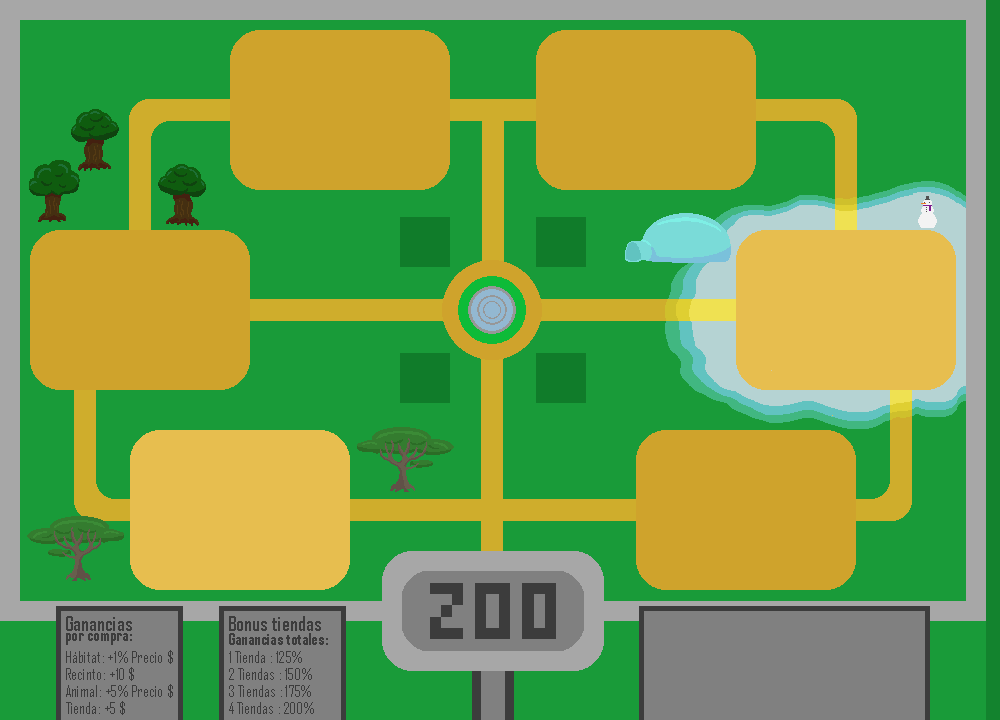
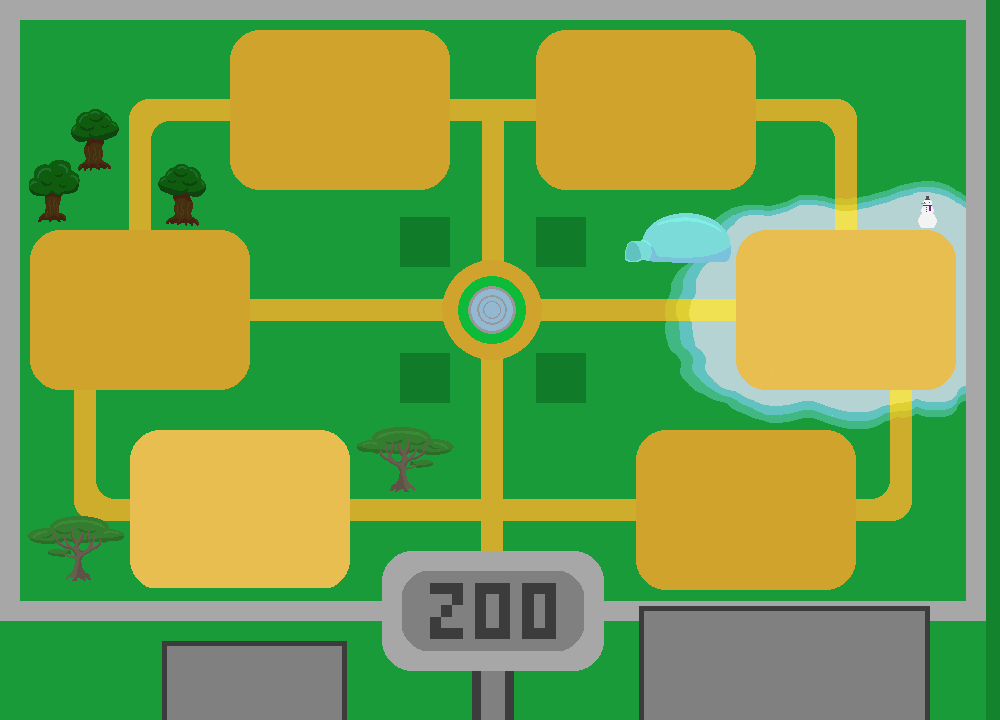
Creación de la imagen InfoZoo y un bóton en PanelZoologico para abrir el PanelInformación con la imagen InfoZoo

Changed region(s): [[0.031, 0.825, 0.372, 1.0]]

diff --git a/ProyectoFinal/src/main/java/Vistas/Paneles/PanelZoologico.java b/ProyectoFinal/src/main/java/Vistas/Paneles/PanelZoologico.java
@@ -6,6 +6,7 @@ import Vistas.Utils.Boton;
 import Vistas.Utils.CuadroTexto;
 import Vistas.Utils.ImageLoader;
 
+import javax.imageio.ImageIO;
 import javax.swing.*;
 import java.awt.*;
 import java.awt.event.ActionEvent;
@@ -13,12 +14,13 @@ import java.awt.event.ActionListener;
 import java.awt.event.KeyEvent;
 import java.awt.event.KeyListener;
 import java.awt.image.BufferedImage;
+import java.io.IOException;
 
 public class PanelZoologico extends JPanel {
     private Timer timer;
     private Zoologico zoologico;
     private PanelHabitat[] listaPanelHabitat;
-    private PanelHabitat openPanelHabitat;
+    private int openPanelHabitatIndex;
     private Boton[] selectHabitat;
     private Boton[] bTiendas;
     private Boton[] bOpciones;
@@ -31,32 +33,33 @@ public class PanelZoologico extends JPanel {
         timer = new Timer(1000,new EscucharTiempo());
         timer.start();
         panelInformacion = new PanelInformacion();
-        panelInformacion.setBounds(100,90,800,600);
+        addComp(panelInformacion,100,90,800,600);
         listaPanelHabitat = new PanelHabitat[6];
         zoologico = zoo;
+        openPanelHabitatIndex = 0;
         this.setBackground(new Color(25,155,57));
         selectHabitat = new Boton[6];
         bTiendas = new Boton[4];
-        bOpciones = new Boton[2];
+        bOpciones = new Boton[3];
+        cuadroInfo = new CuadroTexto[4];
         InteraccionHabitat listenerHabitat = new InteraccionHabitat();
         InteraccionTienda listenerTienda = new InteraccionTienda();
         ImgBackground = ImageLoader.getInstancia().getImagenFondoZoo(6);
         bOpciones[0] = new Boton(Color.BLACK,true,"imgBack.png");
         bOpciones[1] = new Boton(Color.BLACK,true,"imgOpDinero.png");
+        bOpciones[2] = new Boton(Color.BLACK,true,"imgInfoZoo.png");
         bOpciones[0].addActionListener(listenerHabitat);
         bOpciones[1].addActionListener(listenerTienda);
+        bOpciones[2].addActionListener(listenerTienda);
+        addComp(bOpciones[2],56,641,100,50);
         bOpciones[0].setVisible(false);
-        int[] yPos = new int[]{250,450,50,50,450,250};
+        int[] habPos = new int[]{50,150,250,555,655,755,250,450,50,50,450,250};
         for(int i=0; i<6; i++) {
-            int x = 50+100*i;
-            if(i>2)
-                x += 205;
             listaPanelHabitat[i] = new PanelHabitat(zoologico.getHabitat(i));
             selectHabitat[i] = new Boton(Color.BLACK,true,"imgHabitatLock"+i+".png");
             selectHabitat[i].addActionListener(listenerHabitat);
-            addComp(selectHabitat[i],x,yPos[i],180,120);
+            addComp(selectHabitat[i],habPos[i],habPos[i+6],180,120);
         }
-
         int[] yTPos = new int[]{217,353,353,217};
         for(int i=0; i<4; i++) {
             if(i<2)
@@ -64,16 +67,11 @@ public class PanelZoologico extends JPanel {
             bTiendas[i] = new Boton(Color.BLACK, true, "Tienda/imgTiendaLock" + i + ".png");
             bTiendas[i].addActionListener(listenerTienda);
             addComp(bTiendas[i],400+136*(i%2),yTPos[i],50,50);
-        }
-        cuadroInfo = new CuadroTexto[4];
-        cuadroInfo[0] = new CuadroTexto("- Precio Tiendas: "+zoologico.getPrecioTienda()+" $","Arial",1,13);
-        cuadroInfo[0].setOpaque(false);
-        addComp(cuadroInfo[0],650,615,240,20);
-        for(int i=1; i<4; i++) {
             cuadroInfo[i] = new CuadroTexto("-", "Arial", 1,13);
             cuadroInfo[i].setOpaque(false);
             addComp(cuadroInfo[i], 650, 615+25*i, 240, 20);
         }
+        cuadroInfo[0].setText("- Precio Tiendas: "+zoologico.getPrecioTienda()+" $");
     }
 
     public void addComp(Component comp, int x, int y, int width, int height) {
@@ -82,8 +80,10 @@ public class PanelZoologico extends JPanel {
     }
 
     public void toggleHabitat() {
+        PanelHabitat openPanelHabitat = listaPanelHabitat[openPanelHabitatIndex];
         openPanelHabitat.toggleVisible();
         bOpciones[0].setVisible(openPanelHabitat.getVisible());
+        bOpciones[2].setVisible(!openPanelHabitat.getVisible());
         for(int i=0; i<6; i++) {
             selectHabitat[i].setVisible(!openPanelHabitat.getVisible());
             if(i<4) {
@@ -99,26 +99,33 @@ public class PanelZoologico extends JPanel {
             PanelLinker.getPanelMenu().exitHabitat();
             ImgBackground = ImageLoader.getInstancia().getImagenFondoZoo(6);
             remove(openPanelHabitat);
-            if(panelInformacion.getShowing()){
+            if(panelInformacion.isVisible()){
                 toggleInfo(-2, null);
             }
         }
     }
 
     public void toggleInfo(int index, Recinto recinto) {
-        if(panelInformacion.getShowing()) {
-            panelInformacion.toggleShowing();
-            remove(panelInformacion);
+        panelInformacion.toggleShowing();
+        if(!panelInformacion.isVisible()) {
             if(index == -1)
-                add(openPanelHabitat);
+                add(listaPanelHabitat[openPanelHabitatIndex]);
             repaint();
         }else{
-            panelInformacion.toggleShowing();
-            remove(openPanelHabitat);
-            add(panelInformacion);
+            remove(listaPanelHabitat[openPanelHabitatIndex]);
             if(index>=0 && recinto!=null)
                 panelInformacion.openInfo(index, recinto.getListaAnimales());
             repaint();
+        }
+    }
+
+    public void toggleBotones() {
+        bOpciones[2].setVisible(!bOpciones[2].isVisible());
+        for(int i=0; i<6; i++) {
+            selectHabitat[i].setEnabled(!selectHabitat[i].isEnabled());
+            if(i<4) {
+                bTiendas[i].setEnabled(!bTiendas[i].isEnabled());
+            }
         }
     }
 
@@ -147,7 +154,7 @@ public class PanelZoologico extends JPanel {
                         }
                         return;
                     }
-                    openPanelHabitat = listaPanelHabitat[i];
+                    openPanelHabitatIndex = i;
                     break;
                 }
             }
@@ -161,6 +168,12 @@ public class PanelZoologico extends JPanel {
             if(event.getSource()==bOpciones[1]){
                 zoologico.addPaga(1000);
                 PanelLinker.getPanelMenu().updateDinero(zoologico);
+                return;
+            }
+            else if(event.getSource()==bOpciones[2]){
+                panelInformacion.openInfoZoo();
+                toggleInfo(-1,null);
+                toggleBotones();
                 return;
             }
             for(int i=0; i<4; i++) {

diff --git a/ProyectoFinal/src/main/java/Vistas/Paneles/PanelInformacion.java b/ProyectoFinal/src/main/java/Vistas/Paneles/PanelInformacion.java
@@ -6,23 +6,27 @@ import Vistas.Utils.Boton;
 import Vistas.Utils.CuadroTexto;
 import Vistas.Utils.ImageLoader;
 
+import javax.imageio.ImageIO;
 import javax.swing.*;
 import java.awt.*;
 import java.awt.event.ActionEvent;
 import java.awt.event.ActionListener;
 import java.awt.image.BufferedImage;
+import java.io.IOException;
 import java.util.ArrayList;
 
 public class PanelInformacion extends JPanel {
-    private boolean showing;
     private final Boton bCerrar;
     private BufferedImage ImgBackground;
+    private BufferedImage ImgInfoZoo;
     private CuadroTexto[] cNombres;
+    private int casoInfo;
 
     public PanelInformacion(){
         super(null);
         this.setBackground(Color.LIGHT_GRAY);
-        showing = false;
+        this.setEnabled(false);
+        this.setVisible(false);
         CerrarPanel cerrarPanel = new CerrarPanel();
         bCerrar = new Boton(Color.BLACK,true,"imgCerrar.png");
         bCerrar.setBounds(10,10,100,38);
@@ -35,6 +39,12 @@ public class PanelInformacion extends JPanel {
             this.add(cNombres[i]);
         }
         ImgBackground = null;
+        casoInfo=0;
+        try{
+            ImgInfoZoo = ImageIO.read(getClass().getClassLoader().getResource("Informacion/imgInfoZoo.png"));
+        }catch (IOException e){
+            System.out.println(e.getMessage());
+        }
     }
 
     public void openInfo(int index, ArrayList<Animal> animales) {
@@ -56,27 +66,32 @@ public class PanelInformacion extends JPanel {
                 nombres = nombres + ", ";
         }
         cNombres[numCuadro].setText(nombres);
+        casoInfo = -1;
+    }
+
+    public void openInfoZoo() {
+        ImgBackground = ImgInfoZoo;
+        casoInfo = -2;
     }
 
 
     public void toggleShowing() {
-        showing = !showing;
-    }
-
-    public boolean getShowing(){
-        return showing;
+        this.setEnabled(!this.isEnabled());
+        this.setVisible(!this.isVisible());
     }
 
     private class CerrarPanel implements ActionListener {
         @Override
         public void actionPerformed(ActionEvent event) {
-            PanelLinker.getPanelZoo().toggleInfo(-1, null);
+            PanelLinker.getPanelZoo().toggleInfo(casoInfo, null);
+            if(casoInfo==-2)
+                PanelLinker.getPanelZoo().toggleBotones();
         }
     }
 
     public void paintComponent(Graphics g){
         super.paintComponent(g);
-        if(getShowing())
+        if(this.isVisible())
             g.drawImage(ImgBackground, 0, 0, this);
     }
 }

diff --git a/ProyectoFinal/src/main/java/Modelos/Utils/Zoologico.java b/ProyectoFinal/src/main/java/Modelos/Utils/Zoologico.java
@@ -16,7 +16,7 @@ public class Zoologico {
         listaHabitat = new Habitat[6];
         tiendas = new boolean[4];
         almacen = new Almacen();
-        dinero = 5000;
+        dinero = 3000;
         gananciaTotal = 0;
         multas = 0;
         gananciaEsp = new int[4];
